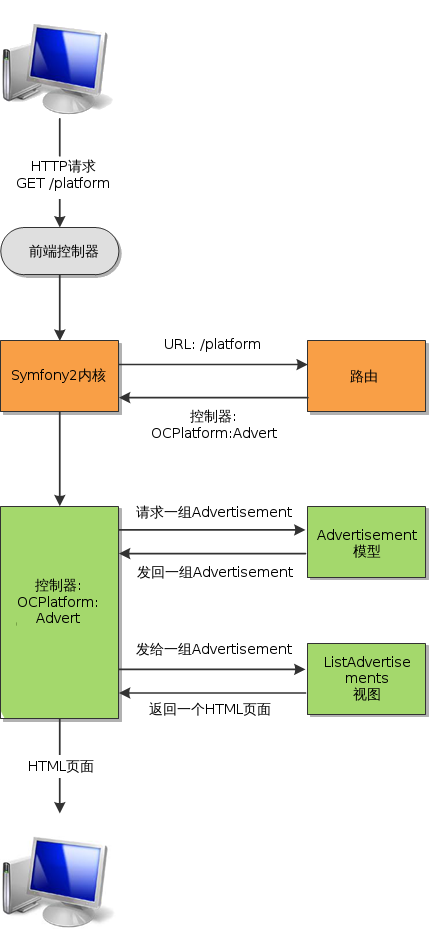
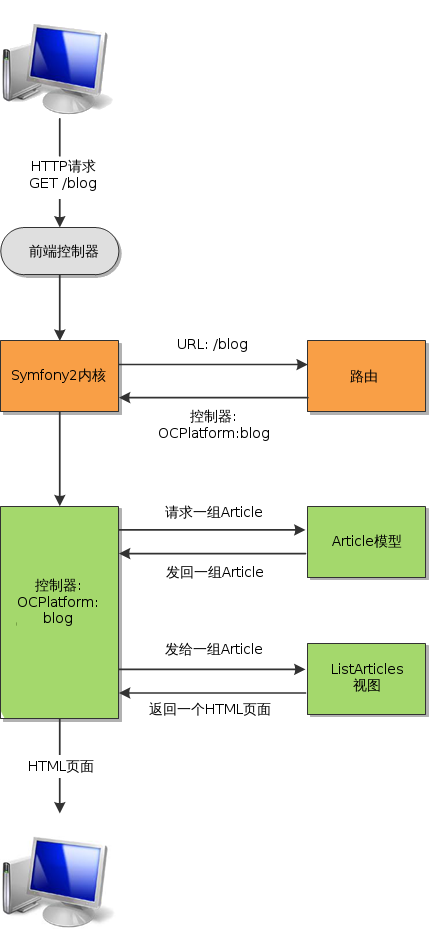
finished chapter02/section-03, updated the http_request.png and corrected some previous texts.

diff --git a/part-01/chapter-02/section-03.md b/part-01/chapter-02/section-03.md
@@ -1,0 +1,68 @@
+# Symfony2和bundle #
+
+## 划分成bundle ##
+
+### bundle的概念 ###
+
+从开始这么课起，你就遇到bundle这个术语好几次了，但它到底是什么意思呢？
+
+简单来说，bundle就是组成你应用程序的基石。Symfony2用这个创新的概念来表达把一个功能所涉及的所有代码都放在同一个地方。比如我们假设你网站里有一个博客bundle，它应该包含控制器，模型，视图，CSS和JavaScript，等等，反正和博客功能直接相关的代码都在这个bundle里。
+
+这样的组织方式让我们很自然地划分功能，从而把每个文件放在最适合的地方。如果一个JavaScript文件只是被博客bundle用到的话，那就把它放在这个bundle里。当然，在每一个bundle内部，我们仍然需要一个清晰的组织结构。我们稍后来看这一点。
+
+### 一些bundle的例子 ###
+
+为了更好地说明，我给你举几个bundle的例子，这些例子很常见：
+
+- 用户bundle。它用来管理用户和组，也集成了用户的管理后台，还有那些我们早已习以为常的页面：用户注册表单页面，重置密码页面，等等。
+- 博客bundle。它用来管理网站上一个博客。这个bundle可以用到上面那个用户bundle来链接到文章作者的个人信息页面和评论页面。
+- 店铺bundle。它可以提供一些工具来管理商品和订单。
+
+这些bundle都遵循一些一致的规则，所以它们可以和谐地工作。例如，一个论坛bundle和一个用户bundle应该要和睦共处：只有用户才能给论坛带来活力。:smirk:
+
+### bundle的优势 ###
+
+总有个问题要搞清楚：使用bundle有什么好处呢？
+
+bundle除了可以让你根据功能来组织代码，也可以让你在应用程序之间重用bundle。这意味着你可以开发出一个功能，然后分享给其他开发人员，或是在你自己的其它项目里使用。当然，反过来也一样：你可以在你的项目里使用别人开发的bundle。
+
+所以bundle的使用提供了无限的可能。想想看，网站上大量的常用功能你都不用自己开发了！你需要一个访客留言簿功能？可能有一个这样的bundle已经开发出来了。还需要一个博客？可能也有一个博客bundle可以拿来用了。
+
+### Symfony社区开发的一些bundle ###
+
+Symfony社区开发的几乎所有bundle都归类在了这个站点：http://knpbundles.com。那里有很多bundle，我给你列举几个：
+
+- [FOSUserBundle](http://knpbundles.com/FriendsOfSymfony/FOSUserBundle) 这个bundle是用来管理你网站用户的。具体来说，它提供了一个User模型，一个完成各样基础功能的控制器（登陆，注册，退出，修改个人信息，等等），还有相关的视图。你只要安装这个bundle，然后稍微定制一下，你的网站就有一个会员空间的功能了！我们在后续的章节里会用到这个bundle。
+- [FOSCommentBundle](http://knpbundles.com/FriendsOfSymfony/FOSCommentBundle) 这个bundle用来管理留言。具体来说，它提供了一个Comment模型（当然也有对应的控制器）来添加，修改和删除网站留言。当然，视图也提供了。装了这个bundle，你就可以在任意页面加上留言的功能了。
+- [GravatarBundle](http://knpbundles.com/ornicar/GravatarBundle) 这个bundle可以用来管理[Gravatar](https://fr.gravatar.com/)web服务上的头像。具体来说，它给你的模板引擎提供了一个扩展，让你可以用一个函数调用轻松地显示来自Gravatar上的头像，很实用的。
+
+我真心建议你在开发你自己的bundle前去http://knpbundles.com上看一下。如果上面已经有一个符合你要求的bundle，那你再重新发明轮子的话就太傻了。:smirk: 当然，我们先得学习如果安装第三方bundle。耐心点，我们会学到的！
+
+## bundle的结构 ##
+
+一个bundle应该包含一切：控制器，视图，模型，自定义的类等等，总而言之，为实现bundle功能而必须的一切代码都被包含在内。当然，这些代码被很好组织在各自的目录里，这样便于查找。下面的表是bundle里文件目录常见的组织方式：
+
+| 目录                  | 说明          |
+| :--------------------|:------------- |
+| /Controller          | 控制器目录 |
+| /DependencyInjection | 包含了该bundle的信息（比如自动加载配置信息）|
+| /Entity              | 模型目录   |
+| /Form                | 表单目录   |
+| /Resources/config    | 包含一些配置文件（比如路由信息）|
+| /Resources/public    | 包含这个bundle里可通过web公开访问的文件（比如CSS，JavaScript，图片等）|
+| /Resources/views     | 包含了视图，比如twig的模板 |
+
+> 译者注：表格第一列里的路径是相对于该bundle的路径，而不是Symfony2安装的根目录。另外根据官方的Symfony2最佳实践，如果这个bundle只是用于该项目而不会用来给其他人使用（通常命名为AppBundle，直接放在/src目录下），那么项目里用到的视图推荐直接放在Symfony2安装根目录下的`/app/Resources/views/`里。
+
+这个结构其实很简单，好好记住吧。不过别以为它们是固定的，你可以建立你自己的目录来更好组织你的代码，只是上面这个约定俗成的结构可以让其他开发人员很快就弄懂你的bundle。当然，接下去我会带着你创建每个文件。:smirk:
+
+## 本章小结 ##
+
+- Symfony2主要有这几个目录：`app`，`src`，`vendor`，`web`。
+- `src`目录包含你网站的源代码，你开发用的大部分时间都花在这个目录了。
+- 有两种工作环境：
+  + 生产环境是面向你的网站访客的。这个环境下的页面加载很快，也不会泻露错误信息给大家。
+  + 开发环境是面向开发人员的，就是说是为你而设的。这个环境下页面加载比生产环境慢，但提供大量对开发有帮助的信息。
+- Symfony2用MVC架构来很好地组织不同部分的源代码。
+- bundle是你应用程序的基石：它包含了实现某个特定功能的一切。这样你就可以把网站的不同部分很好地组织起来。
+- Symfony社区已经开发了大量的bundle。你自己去开发一个bundle之前最好查一下是不是已经有一个实现同样功能的bundle被开发出来了。

diff --git a/part-01/chapter-02/index.md b/part-01/chapter-02/index.md
@@ -2,8 +2,8 @@
 
 在这一章里，我们会看一下Symfony2内部是怎么组织的。我们不会涉及细节，这还为时尚早。我们的目标是看一下在Symfony2里一个页面执行的大体流程。所以，你将会明白你所做的。这样更好，是吧？:smile:
 
-1. [文件的组织结构](https://github.com/csnihhuweeping/symfony2-development/blob/master/part-01/chapter-02/section-01.md)
-2. [框架的设计](https://github.com/csnihhuweeping/symfony2-development/blob/master/part-01/chapter-02/section-02.md)
-3. [Symfony2和bundle](https://github.com/csnihhuweeping/symfony2-development/blob/master/part-02/chapter-01/section-03.md)
+1. [文件的组织结构](./section-01.md)
+2. [框架的设计](./section-02.md)
+3. [Symfony2和bundle](./section-03.md)
 
 
